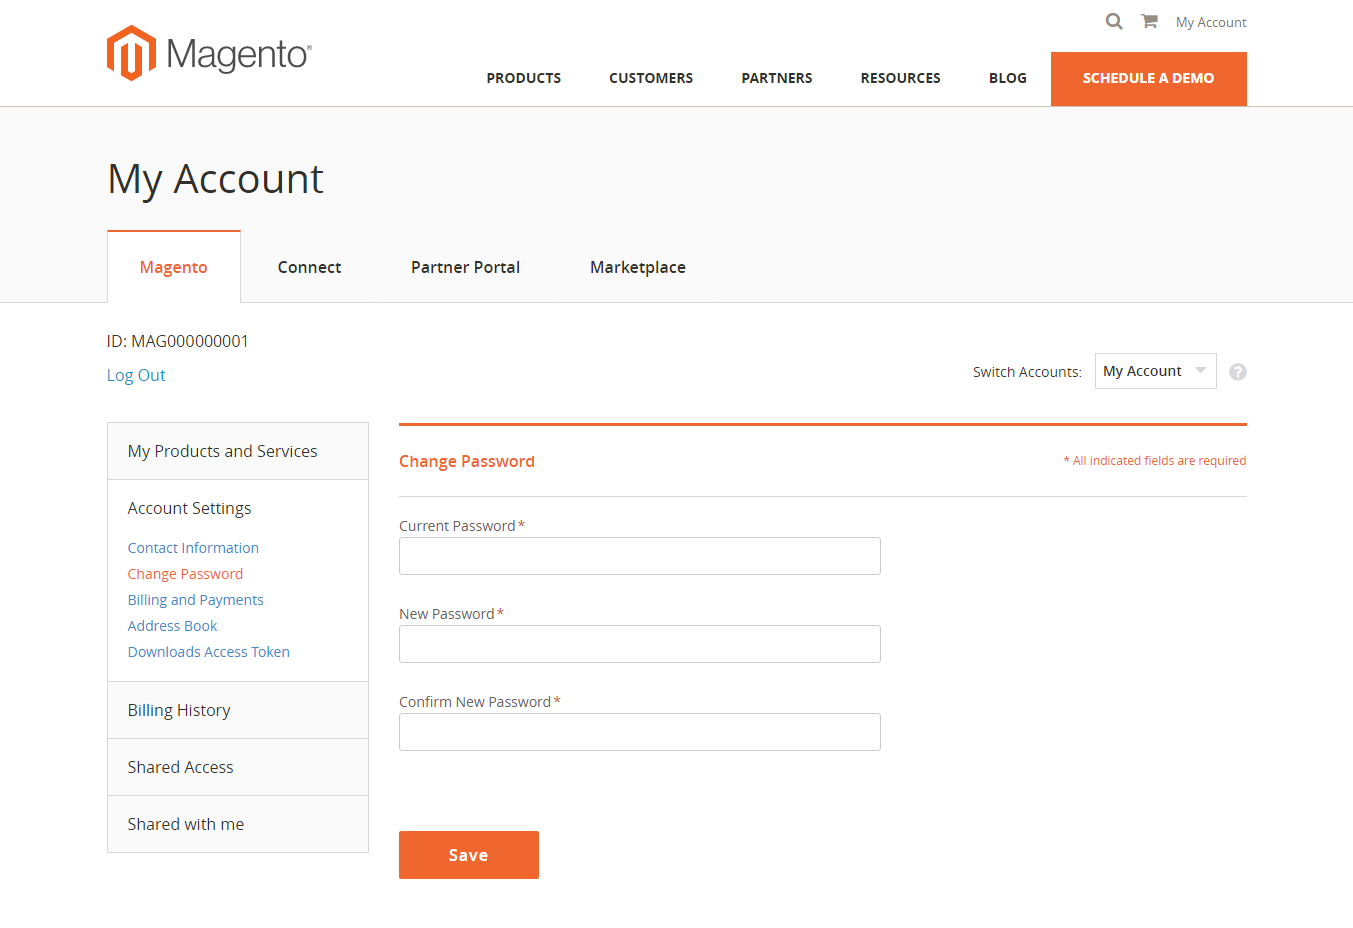
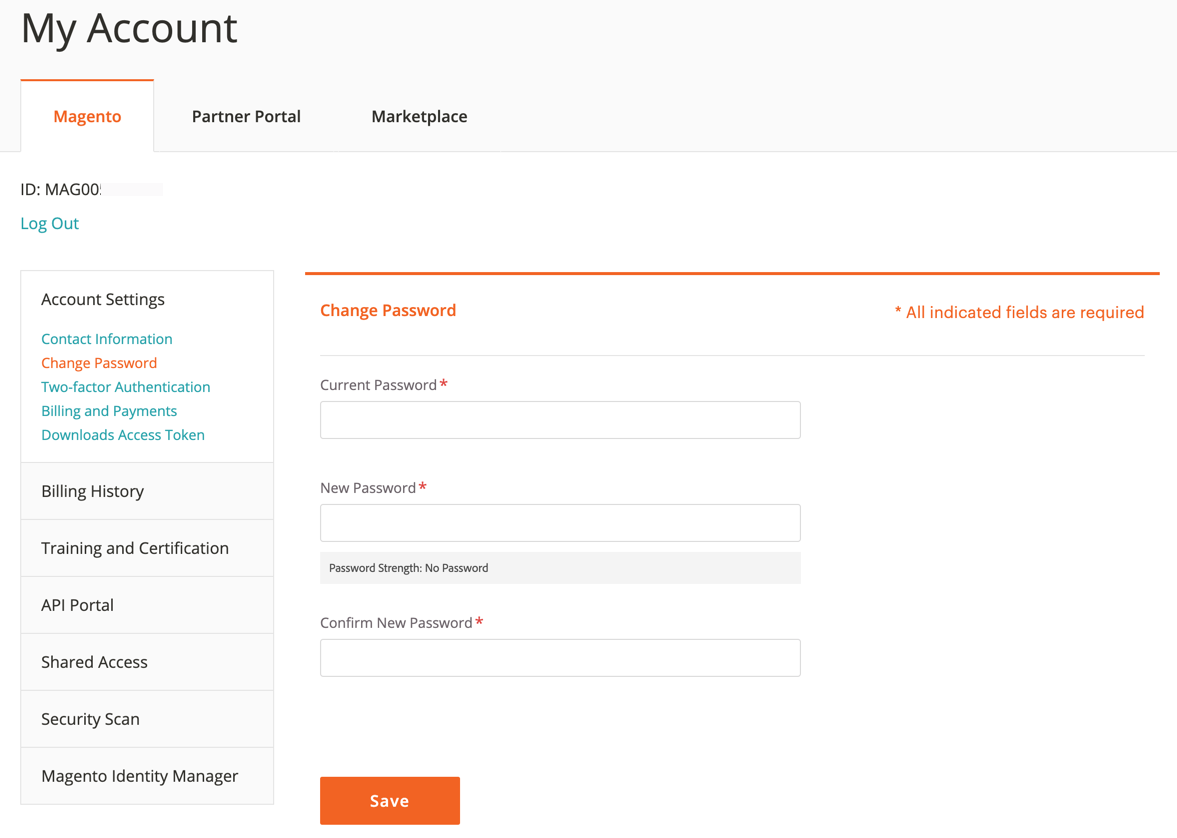
Update Commerce accounts
Updates resulting from Magento Account page and move to business.adobe.com

diff --git a/src/magento/magento-account-create.md b/src/magento/magento-account-create.md
@@ -10,14 +10,14 @@ After you create your account, it is strongly recommended that you use Two-facto
 
 ## Create a Commerce account
 
-1. Visit the Commerce site at [http://www.magento.com][1]{:target="_blank"}.
+1. Go to the [Commerce site][1]{:target="_blank"}.
 
-1. In the upper-right corner, click **Sign In**.
+1. In the upper-right corner, click **Sign In** and choose **Commerce (Magento)**.
 
 1. Click **Create an account**.
 
-   ![]({% link magento/assets/commerce-account-login.png %}){: .zoom}
-   _Account log in page_
+   ![]({% link magento/assets/account-create-link.png %}){: .zoom}
+   _Link for new account_
 
 1. Under _Personal Information_, do the following:
 
@@ -30,7 +30,7 @@ After you create your account, it is strongly recommended that you use Two-facto
    - Set **Country** to reflect your operational location.
 
    ![]({% link magento/assets/account-create.png %}){: .zoom}
-   _Create an account_
+   _Account information_
 
 1. Under _Login Information_, do the following:
 
@@ -48,9 +48,9 @@ After you create your account, it is strongly recommended that you use Two-facto
 
 ## Log in to your Commerce account
 
-1. Go to the Commerce site at [http://www.magento.com][1].
+1. Go to the [Commerce site][1]{:target="_blank"}.
 
-1. In the upper-right corner, click **Sign In**.
+In the upper-right corner, click **Sign In** and choose **Commerce (Magento)**.
 
 1. Enter the **Email** address that is associated with your account.
 
@@ -68,25 +68,25 @@ After you create your account, it is strongly recommended that you use Two-facto
 
 ## Reset your password
 
-1. Go to [http://www.magento.com][1] and log into your account.
+1. Go to the [Commerce site][1]{:target="_blank"} and log into your account.
 
-1. In the panel on the left, choose **Account Settings**.
+1. In the left panel, choose **Account Settings**.
 
-1. Click <span class="btn"> Change Password </span>
+1. Click <span class="btn">Change Password</span>.
+
+   ![]({% link magento/assets/change-password.png %}){: .zoom}
+   _Change your password_
 
 1. Enter your **Current Password**.
 
    If you forgot your password, enter the temporary password that was sent to you.
 
-1. Enter your **New Password** and again for **Confirm Password**.
+1. Enter your **New Password** and again for **Confirm New Password**.
 
    {:.bs-callout-info}
    Your password must be between 8-16 characters, and include at least one capital letter, one number, and one special character or lowercase letter.
 
 1. When complete, click <span class="btn">Save</span>.
 
-   ![]({% link magento/assets/change-password.png %}){: .zoom}
-   _Change your password_
-
-[1]: http://www.magento.com/
+[1]: https://business.adobe.com/products/magento/magento-commerce.html
 [2]: https://community.magento.com/

diff --git a/src/magento/magento-account-share.md b/src/magento/magento-account-share.md
@@ -80,7 +80,7 @@ The following instructions are written from the perspective of a shared user who
    You can use the [Adobe Commerce Help Center](https://support.magento.com/hc/en-us) from the shared account to search for articles and troubleshooting information, find patches for known issues, and create support tickets.
 
    {:.bs-callout-info}
-   After receiving shared access, the user needs to log in to [magento.com](https://account.magento.com/customer/account/login), navigate to _Shared Access_, and click the **Support** tab. This needs to be done the first time only, in order to ensure that the [Commerce Help Center](https://support.magento.com/hc/en-us) is configured properly through the `SSO` call.
+   After receiving shared access, the user needs to log in to your [Commerce account](https://account.magento.com/customer/account/login), navigate to _Shared Access_, and click the **Support** tab. This needs to be done the first time only, in order to ensure that the [Commerce Help Center](https://support.magento.com/hc/en-us) is configured properly through the `SSO` call.
 
 1. To return to your own account, click the **Back** button in your browser and set **Switch Accounts** to `My Account`.
 

diff --git a/src/magento/magento-account-secure.md b/src/magento/magento-account-secure.md
@@ -20,12 +20,7 @@ In order to use TFA, you must have a TFA application installed on your personal 
 
 ## Enable two-factor authentication
 
-1. Go to the Commerce account login: [https://account.magento.com/customer/account/login][1]{:target="_blank"}
-
-1. Enter your username and password combination, and then click <span class="btn">Login</span> to log into My Account.
-
-   ![]({% link magento/assets/commerce-account-login.png %}){: .zoom}
-   _Account log in_
+1. Log in to your Commerce account at [https://account.magento.com/customer/account/login][1]{:target="_blank"}.
 
 1. In the left navigation pane, click **Account Settings** and click **Two-factor Authentication** underneath.
 
